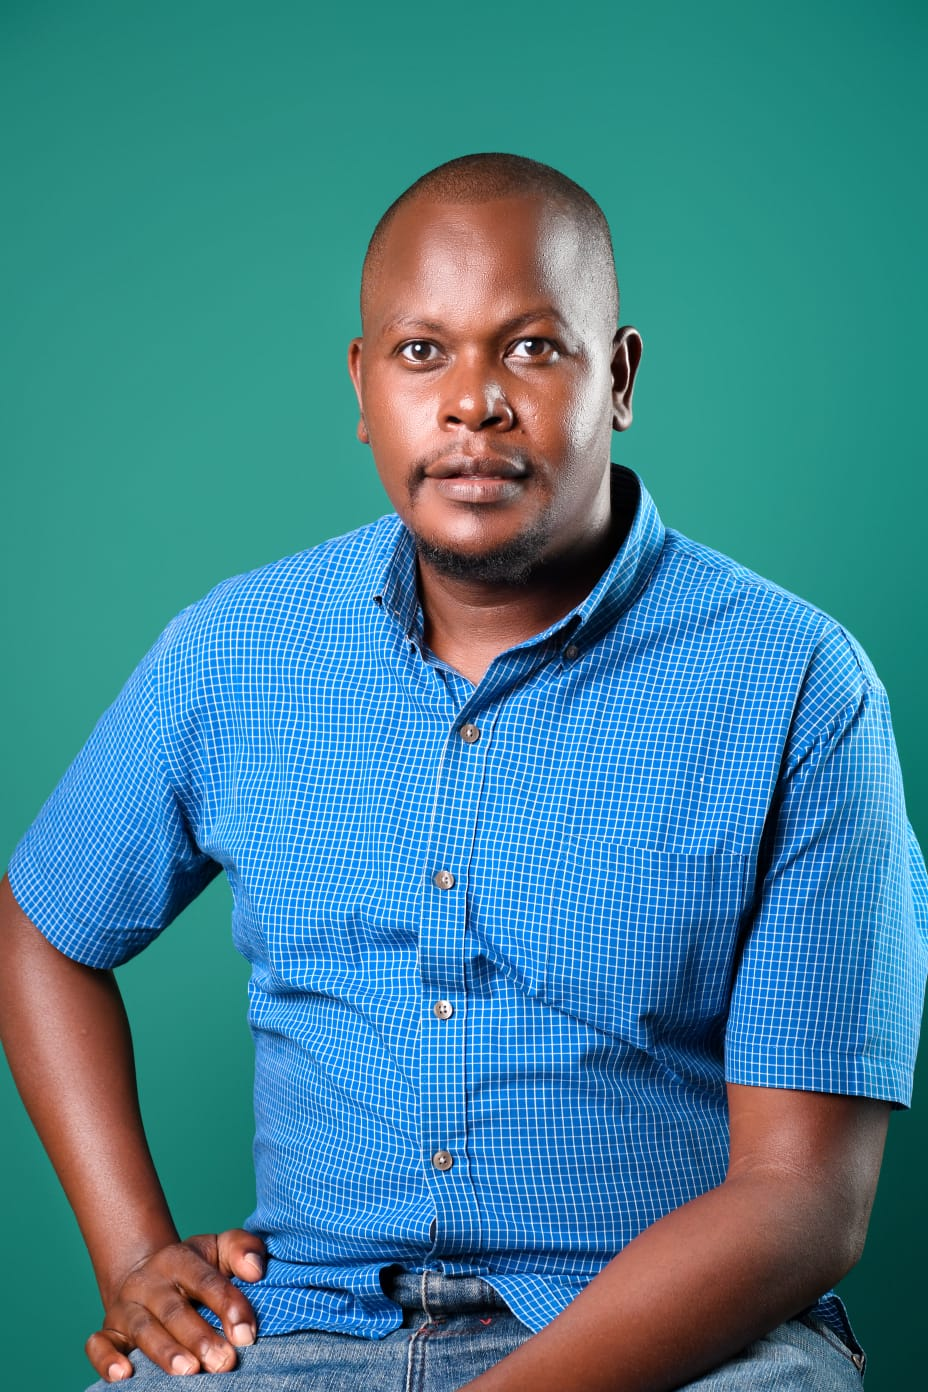
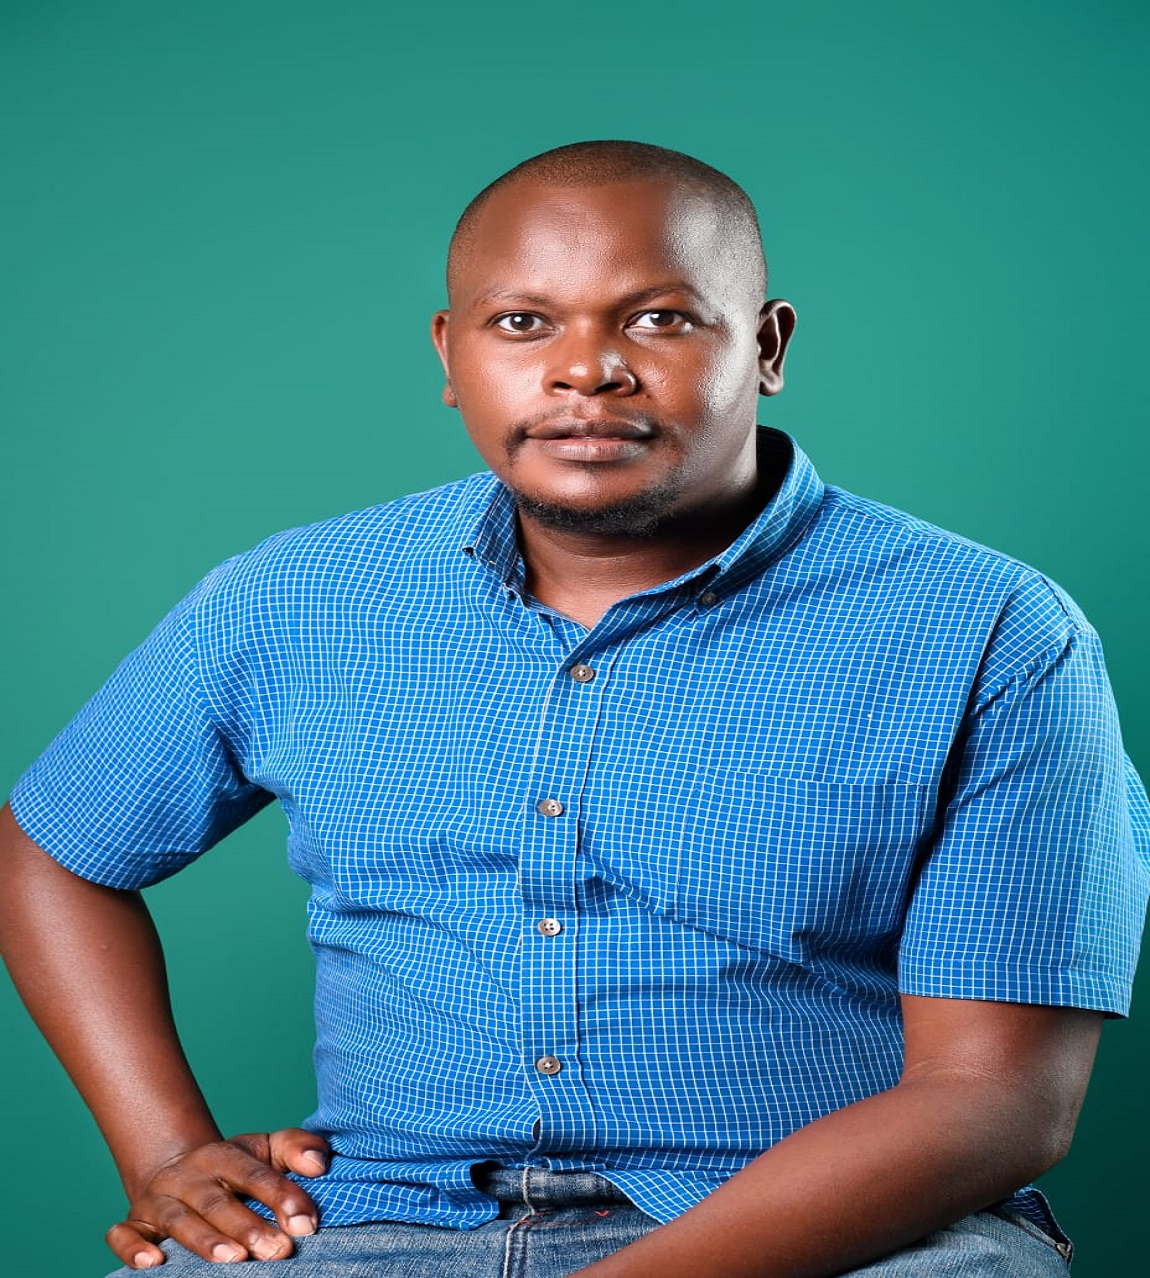
almost there

diff --git a/src/components/Nav.jsx b/src/components/Nav.jsx
@@ -1,8 +1,15 @@
-import { hamburger } from "../assets/icons";
 import { logoff } from "../assets/images";
 import { navLinks } from "../constants";
+import { useState } from "react";
 
 const Nav = () => {
+
+  const [isClick, setIsClick] = useState(false);
+
+  const toggleNavbar = () => {
+    setIsClick(!isClick);
+  };
+
   return (
     <header className='padding-x py-8 fixed top-0 left-0 right-0 bg-pale-blue z-10 '>
       <nav className='flex justify-between items-center max-container'>
@@ -12,7 +19,7 @@ const Nav = () => {
             alt='logo'
             width={150}
             height={35}
-            className='m-0 w-[150px] h-[35px]'
+            className='m-0 w-[50] h-[10]'
           />
         </a>
         <ul className='flex-1 flex justify-center items-center gap-16 max-lg:hidden'>
@@ -20,16 +27,77 @@ const Nav = () => {
             <li key={item.label}>
               <a
                 href={item.href}
-                className='font-montserrat leading-normal text-lg text-black hover:bg-coral-red hover:rounded-full hover:p-2 hover:text-white transition duration-300 ease-in-out'
+                className='font-montserrat leading-normal text-lg text-black hover:bg-coral-red hover:rounded-full hover:p-2 hover:text-white'
               >
                 {item.label}
               </a>
             </li>
           ))}
         </ul>
-        <div className='hidden max-lg:block'>
-          <img src={hamburger} alt='hamburger icon' width={25} height={25} />
+        <div className="md:hidden flex items-center">
+          <button
+            className="inline-flex items-center justify-center p-2 rounded-md text-black md:text-black hover:text-black focus:outline-none focus:ring-2 focus:ring-inset focus:ring-white"
+            onClick={toggleNavbar}
+          >
+            {isClick ? (
+              <svg
+                className="h-6 w-6"
+                xmlns="http://www.w3.org/2000/svg"
+                fill="none"
+                viewBox="0 0 24 24"
+                stroke="currentColor"
+              >
+                <path
+                  strokeLinecap="round"
+                  strokeLinejoin="round"
+                  strokeWidth={2}
+                  d="M6 18L18 6M6 6l12 12"
+                />
+              </svg>
+            ) : (
+              <svg
+                className="h-6 w-6"
+                xmlns="http://www.w3.org/2000/svg"
+                fill="none"
+                viewBox="0 0 24 24"
+                stroke="currentColor"
+              >
+                <path
+                  strokeLinecap="round"
+                  strokeLinejoin="round"
+                  strokeWidth={2}
+                  d="M4 6h16M4 12h16m-7 6h7"
+                />
+              </svg>
+            )}
+          </button>
         </div>
+        {isClick && (
+          <div className="md:hidden">
+            <div className="px-2 pt-2 pb-3 space-y-1 sm:px-3">
+              <li className="pb-6 font-montserrat leading-normal text-base text-black py-2 md:px-6 text-center border-b-2 md:border-b-0 hover:bg-coral-red border-coral-red md:hover:text-coral-red hover:rounded-full md:hover:bg-transparent">
+                <a href="#home" onClick={toggleNavbar}>
+                Home
+                </a>
+              </li>
+              <li className="pb-6 font-montserrat leading-normal text-base text-black py-2 px-6 text-center border-b-2 md:border-b-0 hover:bg-coral-red border-coral-red md:hover:text-coral-red hover:rounded-full md:hover:bg-transparent">
+                <a href="#programs" onClick={toggleNavbar}>
+                Programs
+                </a>
+              </li>
+              <li className="pb-6 font-montserrat leading-normal text-base text-black py-2 px-6 text-center border-b-2 md:border-b-0 hover:bg-coral-red border-coral-red md:hover:text-coral-red hover:rounded-full md:hover:bg-transparent">
+                <a href="#products" onClick={toggleNavbar}>
+                  Our Team
+                </a>
+              </li>
+              <li className="pb-6 font-montserrat leading-normal text-base text-black py-2 px-6 text-center border-b-2 md:border-b-0 hover-bg-coral-red border-coral-red md:hover-text-coral-red hover:rounded-full md-hover-bg-transparent">
+                <a href="/contact" onClick={toggleNavbar}>
+                  Contact Us
+                </a>
+              </li>
+            </div>
+          </div>
+        )}
       </nav>
     </header>
   );

diff --git a/src/sections/Hero.jsx b/src/sections/Hero.jsx
@@ -13,26 +13,22 @@ const ImageSlider = () => {
   const [currentImageIndex, setCurrentImageIndex] = useState(0);
 
   useEffect(() => {
-    // Function to automatically transition to the next image
+    
     const nextImage = () => {
       setCurrentImageIndex((prevIndex) => (prevIndex + 1) % images.length);
     };
-
-    // Set an interval to change the image every 5 seconds (5000ms)
-    const imageInterval = setInterval(nextImage, 5000);
-
-    // Clean up the interval when the component unmounts
+    const imageInterval = setInterval(nextImage, 4000);
     return () => {
       clearInterval(imageInterval);
     };
   }, []);
 
   return (
-    <section id="home" className="w-full flex xl:flex-row flex-col justify-center min-h-screen gap-10 max-container">
-      <div className="relative xl:w-2/5 flex flex-col justify-center items-start w-full max-xl:padding-x pt-28">
+    <section id="home" className="w-full flex xl:flex-row mt-8 flex-col justify-center min-h-screen gap-10 max-container">
+      <div className="relative ml-7 xl:w-2/5 flex flex-col justify-center w-full max-xl:padding-x pt-28">
         <div className="text-white text-center">
-          <h1 className='mt-10 font-palanquin text-4xl max-sm:text-[72px] max-sm:leading-[82px] font-bold'>
-            <span className="xl:whitespace-nowrap relative pr-10 text-coral-red p-2">
+          <h1 className='mt-1 font-palanquin text-4xl max-sm:text-[72px] max-sm:leading-[82px] font-bold'>
+            <span className="xl:whitespace-nowrap relative pr-10 text-black red p-2">
               Creative Arts
             </span>
             <br />
@@ -41,21 +37,18 @@ const ImageSlider = () => {
           <p className="text-base font-montserrat text-coral-red">
             Building a sustainable future for the arts
           </p>
-          <p className="font-montserrat font-semibold text-coral-red text-base leading-8 mt-6 mb-14">
+          <p className="font-montserrat font-semibold text-black text-base leading-8 mt-6 mb-5">
             Welcome to the Creative Arts Leadership Institute (CALI), a premier leadership development organization focused on empowering creative professionals to lead with vision, purpose, and impact.
           </p>
-          <Button label="Enroll now" iconURL={arrowRight} className="mt-2" />
+          <Button label="Enroll now" iconURL={arrowRight}  />
         </div>
       </div>
-      <div className="relative flex-1 flex justify-center items-center xl:min-h-screen max-xl:py-40 ">
+      <div className="relative xl:mt-10 xl:mr-10 flex-1 flex justify-center items-center mt-12 sm:mt-0 sm:mb-8">
         <img
           src={images[currentImageIndex]} 
           alt="Slider Image"
-          className="max-h-150" 
+          className="h-250 sm:h-auto rounded-3xl" 
         />
-        <div className="flex sm:gap-6 gap-4 absolute -bottom-[5%] sm:left-[10%] max-sm:px-6">
-          {/* Additional content or controls can be placed here */}
-        </div>
       </div>
     </section>
   );

diff --git a/src/sections/Footer.jsx b/src/sections/Footer.jsx
@@ -1,5 +1,5 @@
 import { LogoID } from "../assets/images";
-import { footerLinks, socialMedia } from "../constants";
+import { footerLinks } from "../constants";
 
 const Footer = () => {
   return (
@@ -19,16 +19,37 @@ const Footer = () => {
           <p className="mt-6 text-base leading-7 font-montserrat text-white sm:max-w-sm">
             Thank you for considering CALI as your partner in creative arts leadership development. We look forward to working with you to help you achieve your leadership goals and make a positive impact on the world.
           </p>
-          <div className="flex items-center gap-5 mt-8 hover:cursor-pointer">
-            {socialMedia.map((icon) => (
-              <div
-                className="flex justify-center items-center w-12 h-12 bg-white rounded-full hover:bg-slate-gray transition duration-300 ease-in-out"
-                key={icon.alt}
-              >
-                <img src={icon.src} alt={icon.alt} width={24} height={24} />
-              </div>
-            ))}
-          </div>
+          <div className="flex items-center gap-5 mt-8">
+            <a href="https://www.facebook.com/profile.php?id=61552732195123"  className="hover:opacity-100 cursor-pointer">
+              <img
+                src="/facebook.gif"
+                alt="Facebook"
+                className="w-10 h-10 rounded-md"
+              />
+            </a>
+            <a href="https://x.com/Caliinstitute?t=oMH14klkkCMT8iKhHaxYCw&s=08"  className="hover:opacity-80 cursor-pointer">
+              <img
+                src="/instagram.gif"
+                alt="Instagram"
+                className="w-10 h-10 rounded-sm"
+              />
+            </a>
+            <a href="https://instagram.com/cali.institute?igshid=MzRlODBiNWFlZA==" className="hover:opacity-80 cursor-pointer">
+              <img
+                src="/twitter.gif"
+                alt="Twitter"
+                className="w-10 h-10 rounded-sm"
+              />
+            </a>
+            <a href="https://www.linkedin.com/in/creative-arts-management-institute-cali-58b93a297/" className="hover:opacity-80 cursor-pointer">
+              <img
+                src="/linkedin.gif"
+                alt="LinkedIn"
+                className="w-10 h-10 rounded-sm"
+              />
+            </a>
+</div>
+
         </div>
 
         

diff --git a/src/components/OurTeamCard.jsx b/src/components/OurTeamCard.jsx
@@ -1,7 +1,7 @@
 const OurTeamCard = ({ imgURL, name, role }) => {
   return (
-    <div className='flex flex-1 flex-col w-full max-sm:w-full shadow-lg rounded-md items-center'>
-      <img src={imgURL} alt={name} className='w-[290px] h-[282px]' />
+    <div className='flex flex-1 flex-col w-full pb-7 max-sm:w-full shadow-lg rounded-md items-center'>
+      <img src={imgURL} alt={name} className='w-[290px] h-[282px] rounded-full' />
       <h3 className='mt-2 text-2xl text-center leading-normal font-semibold font-palanquin'>
         {name}
       </h3>

diff --git a/src/components/DescriptionCard.jsx b/src/components/DescriptionCard.jsx
@@ -1,7 +1,7 @@
 const DescriptionCard = ({ imgURL, label, subtext }) => {
   return (
     <div className='flex-1 sm:w-[350px] sm:min-w-[350px] w-full rounded-[20px] shadow-3xl px-10 py-16'>
-      <div className='w-11 h-11 flex justify-center items-center bg-orange-400 rounded-full'>
+      <div className='w-11 h-11 flex justify-center items-center bg-coral-red rounded-full'>
         <img src={imgURL} alt={label} width={24} height={24} />
       </div>
       <h3 className='mt-5 font-palanquin text-xl leading-normal font-bold'>

diff --git a/src/assets/images/index.js b/src/assets/images/index.js
@@ -1,4 +1,5 @@
 import faith from './faith.jpg'
+import eman from './eman.jpg'
 import njoroge from './njoroge.jpg'
 import shikuku from './shikuku.jpg'
 import training from './training.jpg'
@@ -21,6 +22,7 @@ import degree14 from './degree14.svg'
 
 
 export {
+    eman,
     faith,
     njoroge,
     shikuku,
